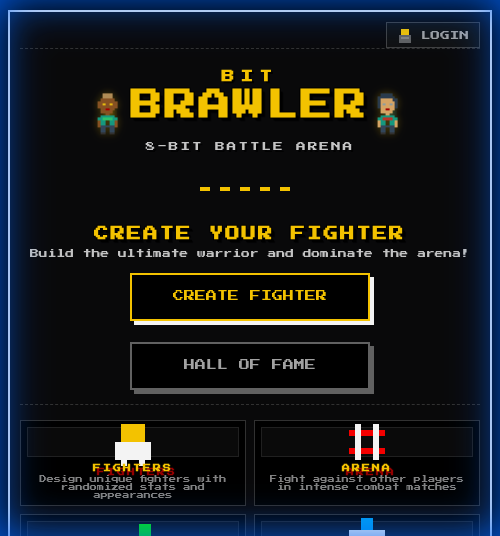
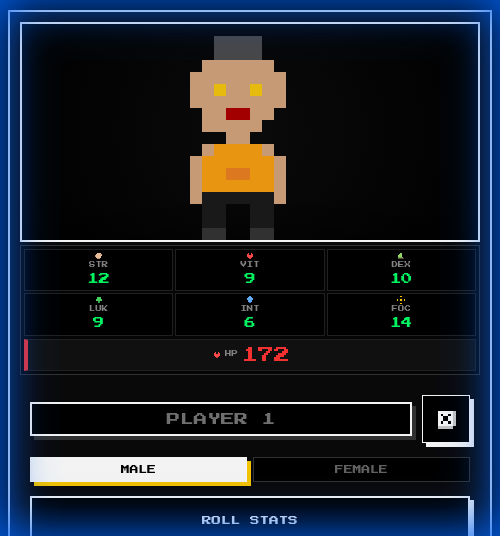
feat: replace bpm-table image with feature-focused screenshot

Changed region(s): [[0.0, 0.0, 1.0, 1.0], [0.78, 0.5672, 0.84, 0.6269], [0.18, 0.5672, 0.21, 0.6269]]

diff --git a/src/pages/Projects.tsx b/src/pages/Projects.tsx
@@ -1,4 +1,4 @@
-import { useState, useMemo } from 'react';
+import { useState, useMemo, useEffect } from 'react';
 import { projects, type Project } from '@/data/portfolio';
 import './Projects.scss';
 
@@ -6,13 +6,25 @@ import './Projects.scss';
 const allTags = Array.from(new Set(projects.flatMap((p) => p.tags))).sort();
 
 export default function Projects() {
-    const [activeTag, setActiveTag] = useState<string | null>(null);
+    const [selectedTag, setSelectedTag] = useState<string>('All');
     const [selectedProject, setSelectedProject] = useState<Project | null>(null);
 
+    // Lock body scroll when modal is open
+    useEffect(() => {
+        if (selectedProject) {
+            document.body.style.overflow = 'hidden';
+        } else {
+            document.body.style.overflow = 'unset';
+        }
+        return () => {
+            document.body.style.overflow = 'unset';
+        };
+    }, [selectedProject]);
+
     const filtered = useMemo(() => {
-        if (!activeTag) return projects;
-        return projects.filter((p) => p.tags.includes(activeTag));
-    }, [activeTag]);
+        if (selectedTag === 'All') return projects;
+        return projects.filter((p) => p.tags.includes(selectedTag));
+    }, [selectedTag]);
 
     return (
         <section className="projects-page" id="projects">
@@ -28,16 +40,16 @@ export default function Projects() {
             {/* Filters */}
             <div className="projects-page__filters" id="project-filters">
                 <button
-                    className={`filter-tag ${!activeTag ? 'filter-tag--active' : ''}`}
-                    onClick={() => setActiveTag(null)}
+                    className={`filter-tag ${selectedTag === 'All' ? 'filter-tag--active' : ''}`}
+                    onClick={() => setSelectedTag('All')}
                 >
                     Tous
                 </button>
                 {allTags.map((tag) => (
                     <button
                         key={tag}
-                        className={`filter-tag ${activeTag === tag ? 'filter-tag--active' : ''}`}
-                        onClick={() => setActiveTag(activeTag === tag ? null : tag)}
+                        className={`filter-tag ${selectedTag === tag ? 'filter-tag--active' : ''}`}
+                        onClick={() => setSelectedTag(tag)}
                     >
                         {tag}
                     </button>

diff --git a/src/pages/Projects.scss b/src/pages/Projects.scss
@@ -109,6 +109,7 @@
         width: 100%;
         height: 100%;
         object-fit: cover;
+        object-position: center top;
         transition: transform $transition-slow;
 
         .project-card:hover & {
@@ -228,6 +229,7 @@
         width: 100%;
         aspect-ratio: 16 / 10;
         object-fit: cover;
+        object-position: center top;
     }
 
     &__body {
